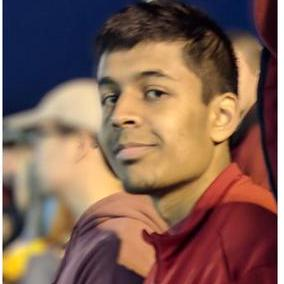
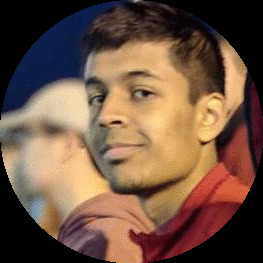
Multiple css changes to make webpage look better

diff --git a/personal-website/src/components/Experience.js b/personal-website/src/components/Experience.js
@@ -17,36 +17,36 @@ class Experience extends Component{
 
     render(){
         return(
-            <div class="Experience">
+            <div class="ExperienceSummary">
                 <Helmet>
                     <style>{'body { background-color: #f7f7f7 !important; }'}</style>
                 </Helmet>
                 <h2 class="ExperienceHeader">Experience</h2>
-                <div class="Card">
-                    <h3 class="Position">Software Development Engineer Intern</h3>
-                    <p class="Place" onClick={() => this.openFarmBureau()}>Farm Bureau Financial Services</p>
-                    <p class="Date">May 2019 - August 2019  *  Des Moines, IA</p>
+                <div class="ExperienceCard">
+                    <h3 class="ExperiencePosition">Software Development Engineer Intern</h3>
+                    <p class="ExperiencePlace" onClick={() => this.openFarmBureau()}>Farm Bureau Financial Services</p>
+                    <p class="ExperienceDate">May 2019 - August 2019  *  Des Moines, IA</p>
                 </div>
                 <br></br><br></br>
 
-                <div class="Card">
-                    <h3 class="Position">Software Development Engineer Intern</h3>
-                    <p class="Place" onClick={() => this.openCSAFE()}>Center for Statistics and Applications in Forensic Evidence</p>
-                    <p class="Date">September 2018 - December 2018  *  Ames, IA</p>
+                <div class="ExperienceCard">
+                    <h3 class="ExperiencePosition">Software Development Engineer Intern</h3>
+                    <p class="ExperiencePlace" onClick={() => this.openCSAFE()}>Center for Statistics and Applications in Forensic Evidence</p>
+                    <p class="ExperienceDate">September 2018 - December 2018  *  Ames, IA</p>
                 </div>
                 <br></br><br></br>
 
-                <div class="Card">
-                    <h3 class="Position">Software Development Engineer Intern</h3>
-                    <p class="Place" onClick={() => this.openFarmBureau()}>Farm Bureau Financial Services</p>
-                    <p class="Date">May 2019 - August 2019  *  Des Moines, IA</p>
+                <div class="ExperienceCard">
+                    <h3 class="ExperiencePosition">Software Development Engineer Intern</h3>
+                    <p class="ExperiencePlace" onClick={() => this.openFarmBureau()}>Farm Bureau Financial Services</p>
+                    <p class="ExperienceDate">May 2019 - August 2019  *  Des Moines, IA</p>
                 </div>
                 <br></br><br></br>
 
-                <div class="Card">
-                    <h3 class="Position">Teaching Instructor</h3>
-                    <p class="Place" onClick={() => this.openISU()}>Iowa State University</p>
-                    <p class="Date">January 2018 - May 2018  *  Ames, IA</p>
+                <div class="ExperienceCard">
+                    <h3 class="ExperiencePosition">Teaching Instructor</h3>
+                    <p class="ExperiencePlace" onClick={() => this.openISU()}>Iowa State University</p>
+                    <p class="ExperienceDate">January 2018 - May 2018  *  Ames, IA</p>
                 </div>
             </div>
         );

diff --git a/personal-website/src/App.css b/personal-website/src/App.css
@@ -1,9 +1,12 @@
-/* CSS for website tabs*/
+html{
+  scroll-behavior: smooth; 
+}
 
+/* CSS for website tabs*/
+/*
 .Tabs{
   display: inline-block; 
   list-style-type: none;
-  /* padding-left: 13%; */
 }
 
 .MyName{
@@ -33,55 +36,27 @@ ul li{
 
 /* CSS for About page*/
 
-.Summary{
+.AboutSummary{
   padding-top: 3%;
+  text-align: center;
 }
 
 .MyImage{
   border-radius: 50%;
 }
 
-.Name{
-  display: block;
-  font-size: 2em;
-}
-
-.Title{
-  color: #d7d7d7;
-  font-size: 1.5em;
-}
-
-h2{
-  font-weight: normal; 
-  font-size: 50px;
-}
-
 .MyDescription{
+  padding-left: 10%;
+  padding-right: 10%;
   color: #5e5e5e;
   font-size: 1.2em;
 }
 
-/* .Container {
-  display: flex;
-  width: 100%;
-}
-
-.LeftHalf {
-  position: absolute;
-  left: 13%;
-  width: 50%;
-}
-
-.RightHalf {
-  position: absolute;
-  right: 13%;
-  width: 50%;
-} */
-
 /* CSS for Experience page*/
 
-.Experience{
-  background: 100%;
+.ExperienceSummary{
+  text-align: center;
+  padding-right: 5%;
 }
 
 .ExperienceHeader{
@@ -90,19 +65,20 @@ h2{
   font-weight: 200;
 }
 
-.Card {
+.ExperienceCard {
   box-shadow: 0 4px 8px 0 rgba(0, 0, 0, 0.2); 
-  padding: 5px 0 10px 20px;
+  padding: 5px 20px 10px 20px;
   text-align: left;
   background-color: #ffffff;
   border-radius: 2%;
   background-repeat: no-repeat;
   background-position: 50% 50%;
   background-size: cover;
-  width: 600px;
+  width: 65%;
+  margin-left:auto; margin-right:0;
 }
 
-.Position{
+.ExperiencePosition{
   font-family: Montserrat;
   font-size: .9rem;
   font-weight: 700;
@@ -110,17 +86,54 @@ h2{
   text-transform: uppercase;
 }
 
-.Place:hover{
+.ExperiencePlace:hover{
   text-decoration: underline;
 }
 
-.Date{
+.ExperienceDate{
+  font-weight: 100;
+}
+
+/* CSS for Projects page */ 
+
+.ProjectSummary{
+  text-align: center;
+  padding-left: 5%;
+}
+
+.ProjectHeader{
+  font-size: 35px;
+  font-family: Montserrat; 
+  font-weight: 200;
+}
+
+.ProjectCard {
+  box-shadow: 0 4px 8px 0 rgba(0, 0, 0, 0.2); 
+  padding: 5px 20px 10px 20px;
+  text-align: left;
+  background-color: #ffffff;
+  border-radius: 2%;
+  background-repeat: no-repeat;
+  background-position: 50% 50%;
+  background-size: cover;
+  width: 65%;
+}
+
+.ProjectPosition{
+  font-family: Montserrat;
+  font-size: .9rem;
+  font-weight: 700;
+  line-height: 1.5;
+  text-transform: uppercase;
+}
+
+.ProjectDate{
   font-weight: 100;
 }
 
 /*CSS for Languages page*/
 
-.Summary{
+.LanguageSummary{
   padding: 50px 0px 50px 0px;
   text-align: center;
 }
@@ -155,7 +168,7 @@ h2{
    line-height: 5em;
    width: 5em;
    display: block;
-   color: #53777A;
+   color: #6b92ff;
    z-index: 2;
 }
 .Left-Half { 
@@ -175,14 +188,14 @@ h2{
   width: 5em;
   height: 5em;
   border-radius: 50%;
-  border: 0.45em solid #53777A; 
+  border: 0.45em solid #6b92ff; 
   box-sizing: border-box;
- 
 }
+
 .ProgressCircle .FirstHalf {
   position: absolute; 
   clip: rect(0, 5em, 5em, 2.5em);
-  background-color: #53777A;
+  background-color: #6b92ff;
   border-radius: 50%;
   width: 5em;
   height: 5em;
@@ -205,4 +218,12 @@ footer{
   text-align: center;
   font-weight: 300;
   font-size: 0.9em;
+}
+
+.ReactLink{
+  color: #6b92ff;
+}
+
+.ReactLink:hover{
+  text-decoration: underline;
 }

diff --git a/personal-website/src/components/About.js b/personal-website/src/components/About.js
@@ -23,24 +23,20 @@ class About extends Component{
 
     render(){
         return(
-            <section class="Container">
-                <Helmet>
-                    <style>{'body { background-color: pink; }'}</style>
-                </Helmet>
-                <div class="LeftHalf">
-                    <figure>
-                        <img class="MyImage" src={Me} alt={"My Image"}></img>
-                        <br></br><br></br>
-                        <figcaption class="Name">Rishab Narendra</figcaption>
-                        <figcaption class="Title">Software Engineer</figcaption>
-                        <br></br>
+            <div class="AboutSummary">
+                <div class="ImageAndIcons">
+                    <img class="MyImage" src={Me} alt={"My Image"}></img>
+                    <br></br>
+                    <div class="SocialIcons">
+                        <h2>Rishab Narendra</h2>
+                        <h2>Software Engineer</h2>
                         <SocialIcon network="linkedin" onClick={() => this.openLinkedIn()} bgColor="#6b92ff"/>
                         <SocialIcon network="github" onClick={() => this.openGitHub()} bgColor="#171515"/>
                         <SocialIcon network="instagram" onClick={() => this.openInstagram()} bgColor="#b9309d"/>
                         <SocialIcon network="facebook" onClick={() => this.openFacebook()} bgColor="#3d5a9c"/>
-                    </figure>
+                    </div>
                 </div>
-                <div class="RightHalf">
+                <div class="Biography">
                     <h2>Biography</h2>
                     <p class="MyDescription">
                         My name is Rishab Narendra. Currently I am a Software Development Engineer Intern at Farm Bureau Financial 
@@ -57,7 +53,7 @@ class About extends Component{
                     <p>BS in Computer Science, Fall 2019</p>
                     <p>Iowa State University</p>
                 </div>
-            </section>
+            </div>  
         );
     }
 }

diff --git a/personal-website/src/components/Projects.js b/personal-website/src/components/Projects.js
@@ -3,21 +3,23 @@ import React, { Component } from 'react';
 class Projects extends Component{
     render(){
         return(
-            <div class="Summary">
-                <h2 class="ExperienceHeader">Projects</h2> 
-                <div class="Card">
-                    <h3 class="Position">Next Gen 911</h3>
-                    <p class="Date">An Android app that uses publicly available emergency services in close proximity to a caller’s location to 
-                    allow faster response time during 911 emergencies. Desktop operator receives caller’s health details for 
-                    faster aid.
+            <div class="ProjectSummary">
+                <h2 class="ProjectHeader">Projects</h2> 
+                <div class="ProjectCard">
+                    <h3 class="ProjectPosition">Next Gen 911</h3>
+                    <p class="ProjectDate">
+                        An Android app that uses publicly available emergency services in close proximity to a caller’s location to 
+                        allow faster response time during 911 emergencies. Desktop operator receives caller’s health details for 
+                        faster aid.
                     </p>
                 </div>
                 <br></br><br></br>
 
-                <div class="Card">
-                    <h3 class="Position">Salt Analysis Simulator</h3>
-                    <p class="Date">An algorithmic C++ program that simulates the lab salt analysis process by performing preliminary, dilute acid, 
-                    concentrated acid, and reagent tests.
+                <div class="ProjectCard">
+                    <h3 class="ProjectPosition">Salt Analysis Simulator</h3>
+                    <p class="ProjectDate">
+                        An algorithmic C++ program that simulates the lab salt analysis process by performing preliminary, dilute acid, 
+                        concentrated acid, and reagent tests.
                     </p>
                 </div>
             </div>

diff --git a/personal-website/src/components/Languages.js b/personal-website/src/components/Languages.js
@@ -1,9 +1,14 @@
 import React, { Component } from 'react'; 
 
 class Languages extends Component{
+
+    openReact(){
+        window.open("https://reactjs.org/");
+      }
+
     render(){
         return(
-            <div class="Summary">
+            <div class="LanguageSummary">
                 <h1 class="ExperienceHeader">Languages</h1> 
                 <div class="ProgressBars">
                     <div class="Column">
@@ -93,6 +98,12 @@ class Languages extends Component{
                         </div>
                     </div>
                 </div>
+
+                <footer>
+                    <br></br>
+                    {'\u00A9'} 2019 by Rishab Narendra. Proudly created with <a class="ReactLink" onClick={() => this.openReact()}>React</a>.  
+                    <br></br><br></br>
+                </footer>
             </div>
         );
     }

diff --git a/personal-website/src/App.js b/personal-website/src/App.js
@@ -6,23 +6,20 @@ import Languages from './components/Languages';
 import './App.css';
 
 function App() {
+
   return (  
-      <ul class="Tabs">
-        <li class="MyName">Rishab Narendra</li>
+      <div class="Tabs">
+        {/* <li class="MyName">Rishab Narendra</li>
         <li class="TabLinks">About</li>
         <li class="TabLinks">Work</li>
         <li class="TabLinks">Projects</li>
         <li class="TabLinks">Languages</li>
-        <hr class="Line"></hr>
+        <hr class="Line"></hr> */}
         <About />
         <Experience />
         <Projects />
         <Languages />
-        <footer>
-          {'\u00A9'} 2019 by Rishab Narendra. Proudly created with React.  
-          <br></br><br></br>
-        </footer>
-      </ul>
+      </div>
   );
 }
 
